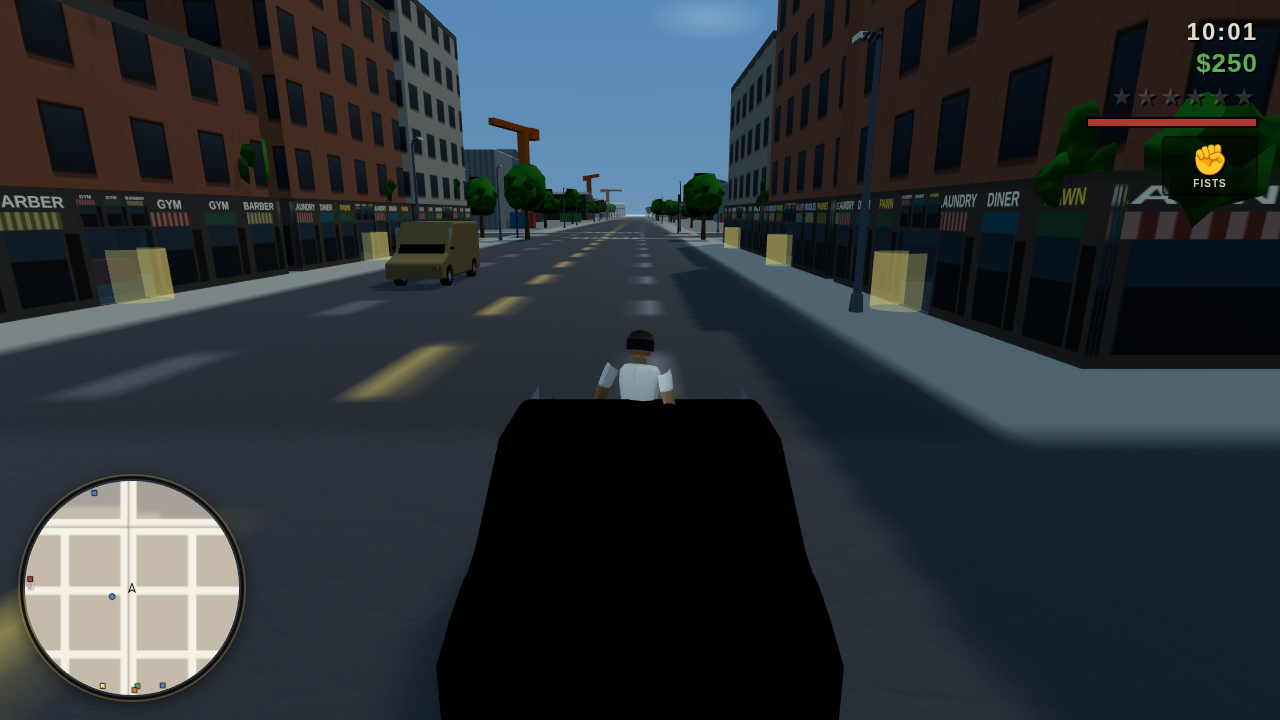
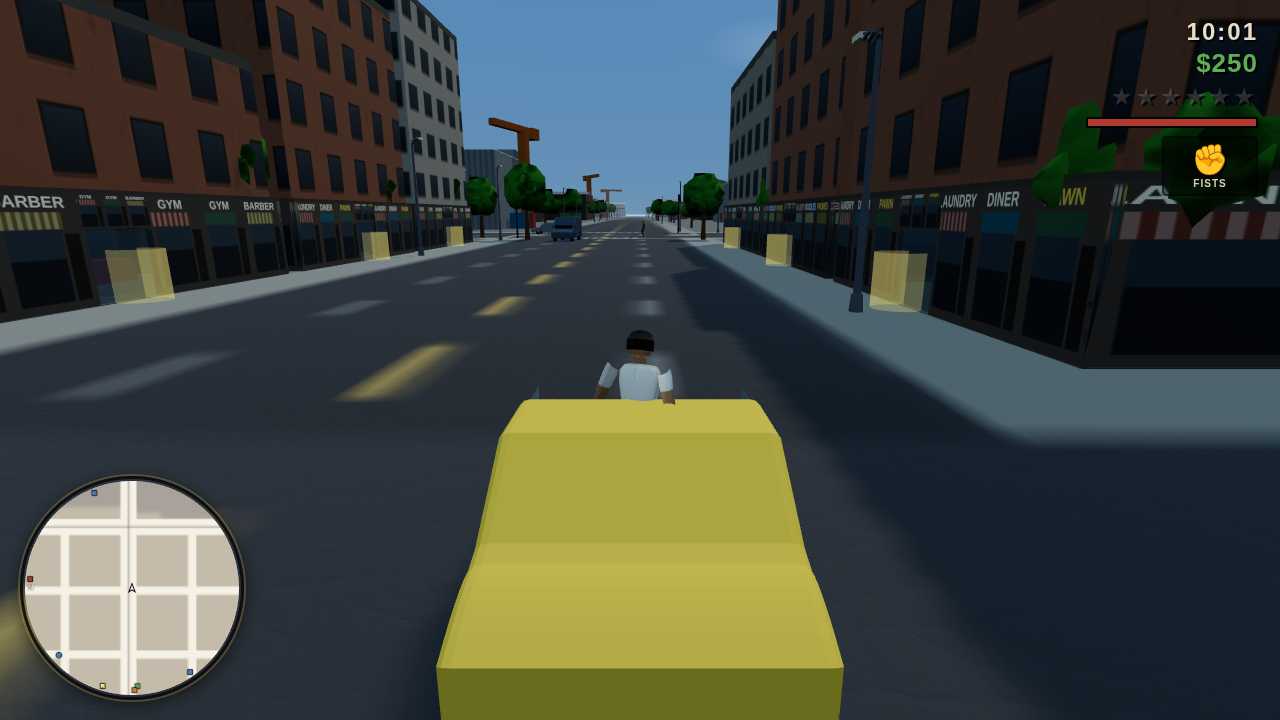
I2: real seating & mounting — driver's side seats, moto straddle, mount lerp
- Per-type seat data in VEHICLE_TYPES (x/y/z in local space + pose): drivers
  sit on the left side of cars, high and forward in vans/buses/trucks, and
  straddle motorcycles with a new 'ride' overlay pose (knees out, leaning
  into the bars) instead of sinking into the frame.
- Entering a vehicle slides the player from the door into the seat over
  0.35s with a hand-reach gesture instead of teleporting.
- Traffic drivers use the same seat data, so AI riders and bus drivers sit
  correctly too.
- New test suite test/seating.mjs (mount lerp, sedan offset, moto straddle,
  traffic seats) wired into npm test.

Claude-Session: https://claude.ai/code/session_01H4wwD5yAZ1wPBuduGiv7Fk

diff --git a/src/entities/vehicle.js b/src/entities/vehicle.js
@@ -6,17 +6,29 @@ import { clamp, damp, lerp, obbVsAabb, wrapAngle } from '../core/mathutil.js';
 import { buildVehicleMesh, SHARED_MATS, SHARED_GEOS } from './vehiclemesh.js';
 
 // All vehicle names are original.
+// seat: where the driver's rig root sits in local space (x right, z forward,
+// y relative to the vehicle origin) and which pose they hold.
 export const VEHICLE_TYPES = {
-  sedan:   { name: 'Falcon',    w: 1.85, l: 4.5,  h: 1.42, maxSpeed: 31, accel: 9,  grip: 7.5, steer: 2.3, mass: 1.0, colors: [0x8a2f26, 0x2e4a6a, 0x777d85, 0x3e3e42, 0x8a7c58, 0x5b6b5a] },
-  sports:  { name: 'Vespera',   w: 1.9,  l: 4.3,  h: 1.16, maxSpeed: 44, accel: 14, grip: 9.5, steer: 2.7, mass: 0.9, colors: [0xb03a2e, 0xe8c84a, 0x2255aa, 0x111111, 0xd8d8d8] },
-  taxi:    { name: 'Falcon Cab',w: 1.85, l: 4.5,  h: 1.42, maxSpeed: 31, accel: 9,  grip: 7.5, steer: 2.3, mass: 1.0, colors: [0xd8a018] },
-  pickup:  { name: 'Mesa',      w: 2.0,  l: 5.0,  h: 1.75, maxSpeed: 28, accel: 7.5, grip: 6.5, steer: 2.0, mass: 1.35, colors: [0x5a4632, 0x3e4a3e, 0x6b7078, 0x7a3020] },
-  van:     { name: 'Boxer',     w: 2.05, l: 5.2,  h: 2.25, maxSpeed: 26, accel: 6.5, grip: 6,   steer: 1.9, mass: 1.5,  colors: [0xd8d4c8, 0x4a5a6a, 0x7a6a4a] },
-  bus:     { name: 'Bayliner',  w: 2.5,  l: 10.5, h: 3.0,  maxSpeed: 22, accel: 4.5, grip: 5.5, steer: 1.35, mass: 3.2, colors: [0x3a6a8a] },
-  police:  { name: 'Interceptor', w: 1.9, l: 4.7, h: 1.45, maxSpeed: 38, accel: 12, grip: 8.5, steer: 2.5, mass: 1.1, colors: [0x16181d] },
-  moto:    { name: 'Comet 250', w: 0.8,  l: 2.2,  h: 1.1,  maxSpeed: 40, accel: 13, grip: 8,   steer: 3.0, mass: 0.35, colors: [0x8a2f26, 0x22262c, 0x2e4a6a] },
-  ambulance: { name: 'Lifeline', w: 2.1, l: 5.4,  h: 2.4,  maxSpeed: 30, accel: 8,  grip: 6.5, steer: 2.0, mass: 1.6, colors: [0xe8e4dc] },
-  firetruck: { name: 'BFD Engine 3', w: 2.4, l: 7.6, h: 2.9, maxSpeed: 27, accel: 7, grip: 6.5, steer: 1.7, mass: 2.6, colors: [0xb02318] },
+  sedan:   { name: 'Falcon',    w: 1.85, l: 4.5,  h: 1.42, maxSpeed: 31, accel: 9,  grip: 7.5, steer: 2.3, mass: 1.0, colors: [0x8a2f26, 0x2e4a6a, 0x777d85, 0x3e3e42, 0x8a7c58, 0x5b6b5a],
+    seat: { x: -0.38, y: -0.36, z: 0.1, pose: 'drive' } },
+  sports:  { name: 'Vespera',   w: 1.9,  l: 4.3,  h: 1.16, maxSpeed: 44, accel: 14, grip: 9.5, steer: 2.7, mass: 0.9, colors: [0xb03a2e, 0xe8c84a, 0x2255aa, 0x111111, 0xd8d8d8],
+    seat: { x: -0.36, y: -0.46, z: 0.02, pose: 'drive' } },
+  taxi:    { name: 'Falcon Cab',w: 1.85, l: 4.5,  h: 1.42, maxSpeed: 31, accel: 9,  grip: 7.5, steer: 2.3, mass: 1.0, colors: [0xd8a018],
+    seat: { x: -0.38, y: -0.36, z: 0.1, pose: 'drive' } },
+  pickup:  { name: 'Mesa',      w: 2.0,  l: 5.0,  h: 1.75, maxSpeed: 28, accel: 7.5, grip: 6.5, steer: 2.0, mass: 1.35, colors: [0x5a4632, 0x3e4a3e, 0x6b7078, 0x7a3020],
+    seat: { x: -0.42, y: -0.2, z: 0.3, pose: 'drive' } },
+  van:     { name: 'Boxer',     w: 2.05, l: 5.2,  h: 2.25, maxSpeed: 26, accel: 6.5, grip: 6,   steer: 1.9, mass: 1.5,  colors: [0xd8d4c8, 0x4a5a6a, 0x7a6a4a],
+    seat: { x: -0.44, y: -0.08, z: 1.0, pose: 'drive' } },
+  bus:     { name: 'Bayliner',  w: 2.5,  l: 10.5, h: 3.0,  maxSpeed: 22, accel: 4.5, grip: 5.5, steer: 1.35, mass: 3.2, colors: [0x3a6a8a],
+    seat: { x: -0.6, y: 0.12, z: 3.6, pose: 'drive' } },
+  police:  { name: 'Interceptor', w: 1.9, l: 4.7, h: 1.45, maxSpeed: 38, accel: 12, grip: 8.5, steer: 2.5, mass: 1.1, colors: [0x16181d],
+    seat: { x: -0.38, y: -0.35, z: 0.12, pose: 'drive' } },
+  moto:    { name: 'Comet 250', w: 0.8,  l: 2.2,  h: 1.1,  maxSpeed: 40, accel: 13, grip: 8,   steer: 3.0, mass: 0.35, colors: [0x8a2f26, 0x22262c, 0x2e4a6a],
+    seat: { x: 0, y: 0.02, z: -0.24, pose: 'ride' } },
+  ambulance: { name: 'Lifeline', w: 2.1, l: 5.4,  h: 2.4,  maxSpeed: 30, accel: 8,  grip: 6.5, steer: 2.0, mass: 1.6, colors: [0xe8e4dc],
+    seat: { x: -0.46, y: -0.02, z: 1.5, pose: 'drive' } },
+  firetruck: { name: 'BFD Engine 3', w: 2.4, l: 7.6, h: 2.9, maxSpeed: 27, accel: 7, grip: 6.5, steer: 1.7, mass: 2.6, colors: [0xb02318],
+    seat: { x: -0.52, y: 0.1, z: 2.3, pose: 'drive' } },
 };
 
 let nextVehicleId = 1;
@@ -87,6 +99,18 @@ export class Vehicle {
     return {
       x: this.pos.x + lx * (this.spec.w / 2 + 0.7),
       z: this.pos.z + lz * (this.spec.w / 2 + 0.7),
+    };
+  }
+
+  // where the driver's rig root goes, in world space, plus the pose to hold
+  seatRigWorld() {
+    const s = this.spec.seat ?? { x: -0.38, y: -(0.32 + (1.6 - this.spec.h) * 0.35), z: 0, pose: 'drive' };
+    const fx = Math.sin(this.heading), fz = Math.cos(this.heading);
+    return {
+      x: this.pos.x + fz * s.x + fx * s.z,
+      y: this.pos.y + s.y,
+      z: this.pos.z - fx * s.x + fz * s.z,
+      pose: s.pose,
     };
   }
 

diff --git a/src/core/animator.js b/src/core/animator.js
@@ -39,6 +39,14 @@ const OVERLAY_POSES = {
     foreArmL: [-0.55, 0, 0], foreArmR: [-0.55, 0, 0],
     spine1: [0.08, 0, 0],
   },
+  // motorcycle straddle: knees out and gripping the tank, leaning into the bars
+  ride: {
+    upLegL: [-0.95, 0, 0.55], upLegR: [-0.95, 0, -0.55],
+    legL: [1.15, 0, 0], legR: [1.15, 0, 0],
+    armL: [-0.95, 0, 0.1], armR: [-0.95, 0, -0.1],
+    foreArmL: [-0.25, 0, 0], foreArmR: [-0.25, 0, 0],
+    spine1: [0.32, 0, 0], head: [-0.2, 0, 0],
+  },
   sit: {
     upLegL: [-1.45, 0, 0.1], upLegR: [-1.45, 0, -0.1],
     legL: [1.35, 0, 0], legR: [1.35, 0, 0],
@@ -235,6 +243,22 @@ export const GESTURES = {
     if (bones.spine2) {
       e.set(0, 0.45 * ext, 0); q.setFromEuler(e);
       bones.spine2.quaternion.multiply(q);
+    }
+  },
+  // reach out with the right hand — door handles, pickups
+  reach(bones, q, e, t) {
+    const ext = Math.sin(clamp(t, 0, 1) * Math.PI);
+    if (bones.armR) {
+      e.set(-1.05 * ext, 0, -0.2 * ext); q.setFromEuler(e);
+      bones.armR.quaternion.multiply(q);
+    }
+    if (bones.foreArmR) {
+      e.set(-0.3 * ext, 0, 0); q.setFromEuler(e);
+      bones.foreArmR.quaternion.multiply(q);
+    }
+    if (bones.spine1) {
+      e.set(0.16 * ext, -0.12 * ext, 0); q.setFromEuler(e);
+      bones.spine1.quaternion.multiply(q);
     }
   },
   // flinch away from a hit

diff --git a/src/systems/vehicles.js b/src/systems/vehicles.js
@@ -4,7 +4,7 @@
 
 import * as THREE from 'three';
 import { Vehicle, VEHICLE_TYPES } from '../entities/vehicle.js';
-import { clamp, dist2d, distSq2d, obbVsObb } from '../core/mathutil.js';
+import { clamp, dist2d, distSq2d, lerp, obbVsObb } from '../core/mathutil.js';
 
 // scratch OBBs for the pair loop (no per-pair garbage)
 const _oa = { x: 0, z: 0, hw: 0, hl: 0, heading: 0 };
@@ -115,7 +115,11 @@ export class VehicleSystem {
     v.missionDriven = false;
     v.parked = false;
     player.vehicle = v;
-    player.rig.setAnim('drive');
+    player.rig.setAnim(v.spec.seat?.pose ?? 'drive');
+    // slide into the seat over a beat instead of teleporting
+    this._mountT = 0.35;
+    this._mountFrom = { x: player.pos.x, y: player.pos.y, z: player.pos.z };
+    player.rig.reachGesture?.(0.4);
     player.pos.set(v.pos.x, v.pos.y, v.pos.z);
     this.game.traffic?.releaseVehicle(v);
     this.game.wanted?.releaseCruiser(v);
@@ -179,10 +183,20 @@ export class VehicleSystem {
       } else {
         v.updatePhysics(dt, this.playerControl);
         player.pos.set(v.pos.x, v.pos.y, v.pos.z);
-        // visible seated driver — sink deeper into low cars so they sit in-seat
+        // visible seated driver at the per-type seat (driver's side, straddle
+        // on bikes), lerping in from the door during the mount beat
         player.rig.group.visible = true;
-        const seatDrop = 0.32 + (1.6 - v.spec.h) * 0.35;
-        player.rig.group.position.set(v.pos.x, v.pos.y - seatDrop, v.pos.z);
+        const seat = v.seatRigWorld();
+        if (this._mountT > 0) {
+          this._mountT -= dt;
+          const k = clamp(1 - this._mountT / 0.35, 0, 1);
+          player.rig.group.position.set(
+            lerp(this._mountFrom.x, seat.x, k),
+            lerp(this._mountFrom.y, seat.y, k),
+            lerp(this._mountFrom.z, seat.z, k));
+        } else {
+          player.rig.group.position.set(seat.x, seat.y, seat.z);
+        }
         player.rig.group.rotation.y = v.heading;
         player.rig.update(dt, 0);
         game.state.stats.distanceDriven += Math.abs(v.speed) * dt;

diff --git a/src/entities/humanoid.js b/src/entities/humanoid.js
@@ -418,6 +418,7 @@ export class SkinnedHumanoid {
       case 'jump': A.play('idle', { timeScale: 0.2 }); A.setOverlay('jump'); break;
       case 'swim': A.play('idle', { timeScale: 0.6 }); A.setOverlay('swim'); break;
       case 'drive': A.play('idle', { timeScale: 0.12 }); A.setOverlay('drive'); break;
+      case 'ride': A.play('idle', { timeScale: 0.12 }); A.setOverlay('ride'); break;
       case 'aim': A.play('idle', { timeScale: 0.5 }); A.setOverlay('aimPistol'); break;
       case 'aimwalk': A.play('walk'); A.setOverlay('aimPistol'); break;
       // extended poses used by NPC behaviours
@@ -440,6 +441,10 @@ export class SkinnedHumanoid {
 
   flinch() {
     this.animator.startGesture(0.3, (t, bones, q, e) => GESTURES.flinch(bones, q, e, t));
+  }
+
+  reachGesture(dur = 0.4) {
+    this.animator.startGesture(dur, (t, bones, q, e) => GESTURES.reach(bones, q, e, t));
   }
 
   die() {

diff --git a/src/systems/traffic.js b/src/systems/traffic.js
@@ -133,7 +133,7 @@ export class TrafficSystem {
     const ped = new Ped(city, this.game.scene, randomLook(Math.random));
     ped.state = 'driver';
     ped.inVehicle = v;
-    ped.rig.setAnim('drive');
+    ped.rig.setAnim(v.spec.seat?.pose ?? 'drive');
     car.driverPed = ped;
     v.driver = ped;
 
@@ -144,7 +144,8 @@ export class TrafficSystem {
 
   seatDriver(car, dt) {
     const dp = car.driverPed, v = car.vehicle;
-    dp.pos.set(v.pos.x, v.pos.y - (0.32 + (1.6 - v.spec.h) * 0.35), v.pos.z);
+    const seat = v.seatRigWorld();
+    dp.pos.set(seat.x, seat.y, seat.z);
     dp.heading = v.heading;
     dp.rig.group.position.copy(dp.pos);
     dp.rig.group.rotation.y = dp.heading;